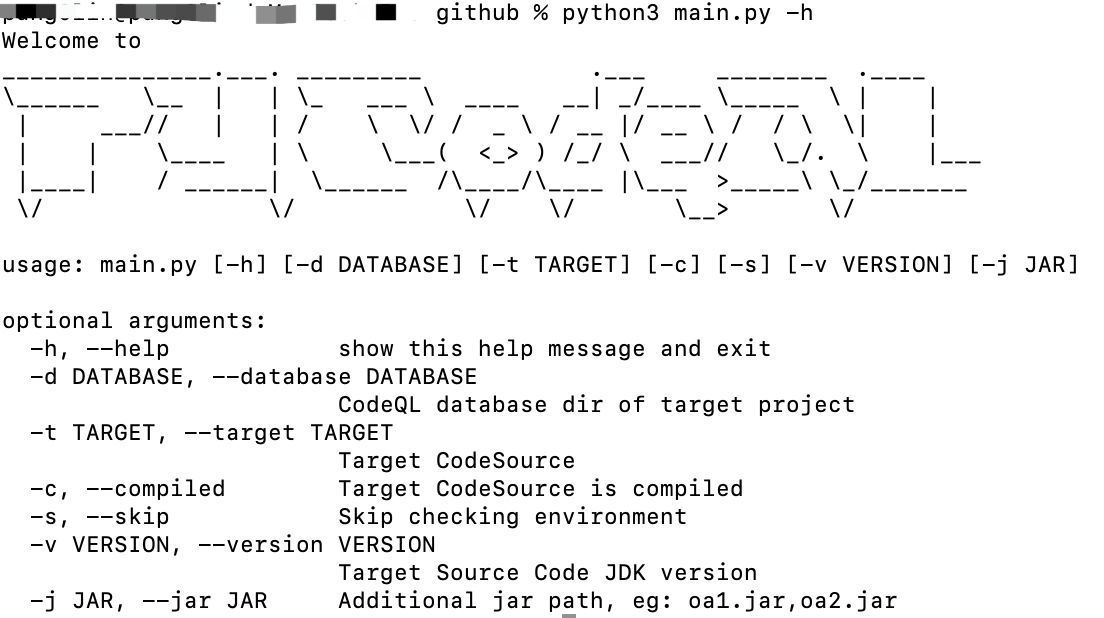
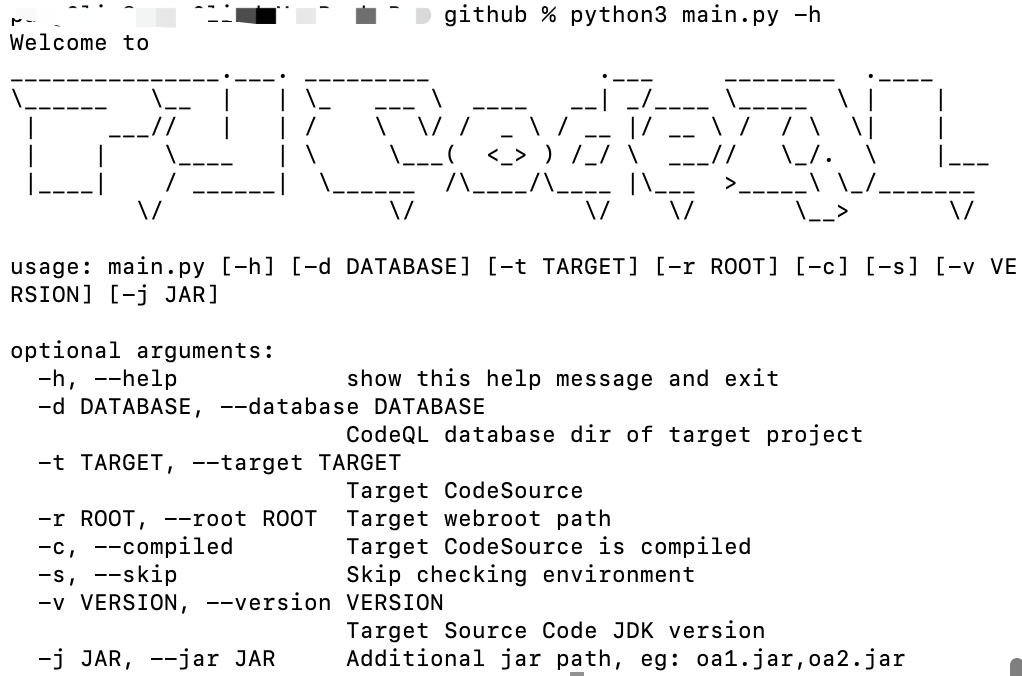
新增-r参数，用于指定网站根目录

diff --git a/compiler/database.py b/compiler/database.py
@@ -83,7 +83,7 @@ def createJar(source, compiled, version):
     else:
         log.error("Decompile error")
 
-def createDir(source, compiled, version, jars):
+def createDir(source, compiled, version, jars, root_path):
     # 处理未编译的源代码，生成数据库
     if not compiled:
         java_files = list(getFilesFromPath(source, "java"))
@@ -173,7 +173,7 @@ def createDir(source, compiled, version, jars):
         clearSource(source)
 
         java_files = list(getFilesFromPath(source, "java"))
-        jsp_files  = list(getFilesFromPath(source, "jsp"))
+        jsp_files  = list(getFilesFromPath(root_path, "jsp"))
         jar_files  = list(getFilesFromPath(source, "jar"))
 
         # WEB-INF目录中的jsp文件不能直接访问，对其进行过滤
@@ -183,7 +183,7 @@ def createDir(source, compiled, version, jars):
         if len(jsp_files) <= 0:
             log.error("Target SourceCode doesn't found any jsp file,exit")
             sys.exit()
-        if not os.path.isfile(os.path.join(source, "WEB-INF/web.xml")):
+        if not os.path.isfile(os.path.join(root_path, "WEB-INF/web.xml")):
             log.error("Target SourceCode doesn't have WEB-INF/web.xml file,exit")
             sys.exit()
 
@@ -195,7 +195,7 @@ def createDir(source, compiled, version, jars):
                     continue
 
                 for jar in jars:
-                    if os.path.basename(jar_file) == jar or re.compile(jar).search(os.path.basename(jar_file)):
+                    if os.path.basename(jar_file) == jar or re.compile("^{}$".format(jar)).search(os.path.basename(jar_file)):
                         save_dir = os.path.join(qlConfig("decode_savedir"), "classes")
                         javaDecompile(jar_file, save_dir)
                 destpath = os.path.join(qlConfig("decode_savedir"), "lib", os.path.basename(srcpath))
@@ -204,7 +204,7 @@ def createDir(source, compiled, version, jars):
         # 处理jsp文件，反编译成java文件，并保存在待编译目录
         if len(jsp_files) > 0:
             log.info(f"Found {len(jsp_files)} jsp files to decode")
-            jspDecompileFiles(jsp_files, source)
+            jspDecompileFiles(jsp_files, root_path)
             convert_jsp_files = list(getFilesFromPath(os.path.join(qlConfig("decode_savedir"), "org/apache/jsp"), "java"))
             log.warning(f"Decode jsp file {len(convert_jsp_files)}/{len(jsp_files)} success ")
             if len(convert_jsp_files) <= 0:
@@ -218,11 +218,11 @@ def createDir(source, compiled, version, jars):
                     copyFile(srcpath, destpath)
 
         # 处理WEB-INF/classes中的源码文件
-        if os.path.isdir(os.path.join(source, "WEB-INF/classes")):
+        if os.path.isdir(os.path.join(root_path, "WEB-INF/classes")):
             save_dir = os.path.join(qlConfig("decode_savedir"), "classes")
             # 对class文件进行反编译
             color_print.info("Start decoding WEB-INF/classes...")
-            javaDecompile(os.path.join(source, "WEB-INF/classes"), save_dir)
+            javaDecompile(os.path.join(root_path, "WEB-INF/classes"), save_dir)
 
         # 处理代码中的.java源码文件
         if len(java_files) > 0:
@@ -297,7 +297,7 @@ def createWar(source, compiled, version, jars):
             if not checkJar(srcpath):
                 continue
             for jar in jars:
-                if os.path.basename(jar_file) == jar or re.compile(jar).search(os.path.basename(jar_file)):
+                if os.path.basename(jar_file) == jar or re.compile("^{}$".format(jar)).search(os.path.basename(jar_file)):
                     save_dir = os.path.join(qlConfig("decode_savedir"), "classes")
                     javaDecompile(jar_file, save_dir)
             destpath = os.path.join(qlConfig("decode_savedir"), "lib", os.path.basename(srcpath))
@@ -378,7 +378,7 @@ def createWar(source, compiled, version, jars):
 
 
 # 根据不同类型的源码进行处理
-def createDB(source, compiled, version, jar_list):
+def createDB(source, compiled, version, jar_list, root_path):
     # 清除历史保存的源码数据
     for path in os.listdir(qlConfig("decode_savedir")):
         c_path = os.path.join(qlConfig("decode_savedir"), path)
@@ -403,7 +403,7 @@ def createDB(source, compiled, version, jar_list):
             log.error("Unsupport source code")
             sys.exit()
     elif os.path.isdir(source):
-        return createDir(source, compiled, version, jars)
+        return createDir(source, compiled, version, jars, root_path)
     else:
         log.error("SourceCode is not exists")
         sys.exit()

diff --git a/main.py b/main.py
@@ -24,6 +24,7 @@ if __name__ == "__main__":
     args = argparse.ArgumentParser()
     args.add_argument('-d', '--database', type=str, help='CodeQL database dir of target project')
     args.add_argument('-t', '--target', type=str, help='Target CodeSource')
+    args.add_argument('-r', '--root', type=str, help='Target webroot path')
     args.add_argument('-c', '--compiled', action="store_true", help='Target CodeSource is compiled')
     args.add_argument('-s', '--skip', action="store_true", help='Skip checking environment')
     args.add_argument('-v', '--version', type=int, default=8, help='Target Source Code JDK version')
@@ -60,6 +61,8 @@ if __name__ == "__main__":
             color_print.error("Target path does not allow blank space")
             sys.exit()
 
+        if not parse_args.root:
+            parse_args.root = parse_args.target
         target_type = checkTarget(parse_args.target)
         if not target_type:
             color_print.error("Target Error")
@@ -68,7 +71,7 @@ if __name__ == "__main__":
         if version not in [6,7,8,11, ]:
             version = 8
         # 通过源码创建数据库
-        createDB(parse_args.target, parse_args.compiled, version, parse_args.jar)
+        createDB(parse_args.target, parse_args.compiled, version, parse_args.jar, parse_args.root)
 
 
 

diff --git a/compiler/decompiler.py b/compiler/decompiler.py
@@ -38,8 +38,8 @@ def javaDecompile(filepath, save_dir):
 
         if not os.path.isdir(save_dir):
             os.makedirs(save_dir)
+        print("decoding {}...".format(filepath))
         args = f" -jar {toolpath} --outputDir {save_dir} {filepath}"
-        print(args)
         execJar(args, 11)
 
 

diff --git a/README.md b/README.md
@@ -20,6 +20,8 @@ CodeQLpy是一款基于CodeQL实现的自动化代码审计工具，目前仅支
 
 -j: 指定源码中需要额外编译的jar包，用于步骤一，用法例如：oa1.jar,oa2.jar。支持通过正则的方式指定包名，例如oa.*?\.jar
 
+-r: 指定目标网站根目录，仅在源码为文件夹类型有用，不指定默认为-t源码路径
+
 ## 安装准备
 
 1、首先安装CodeQL，具体安装方法可以参考[CodeQL安装](https://www.freebuf.com/articles/web/283795.html)。注意一定要使用新版本，老版本中有不支持的语法
